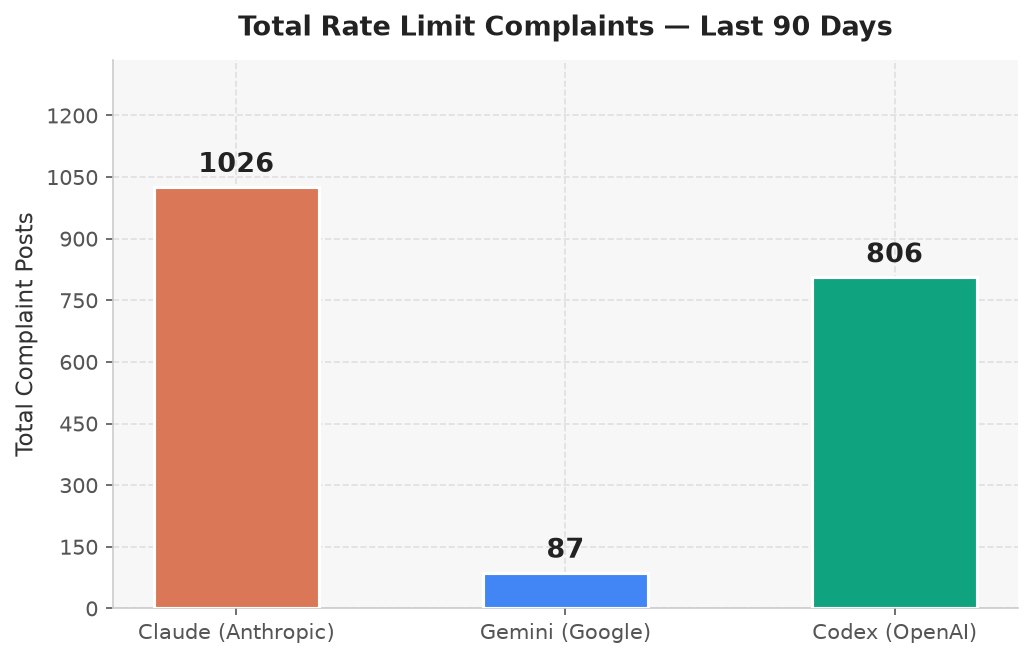
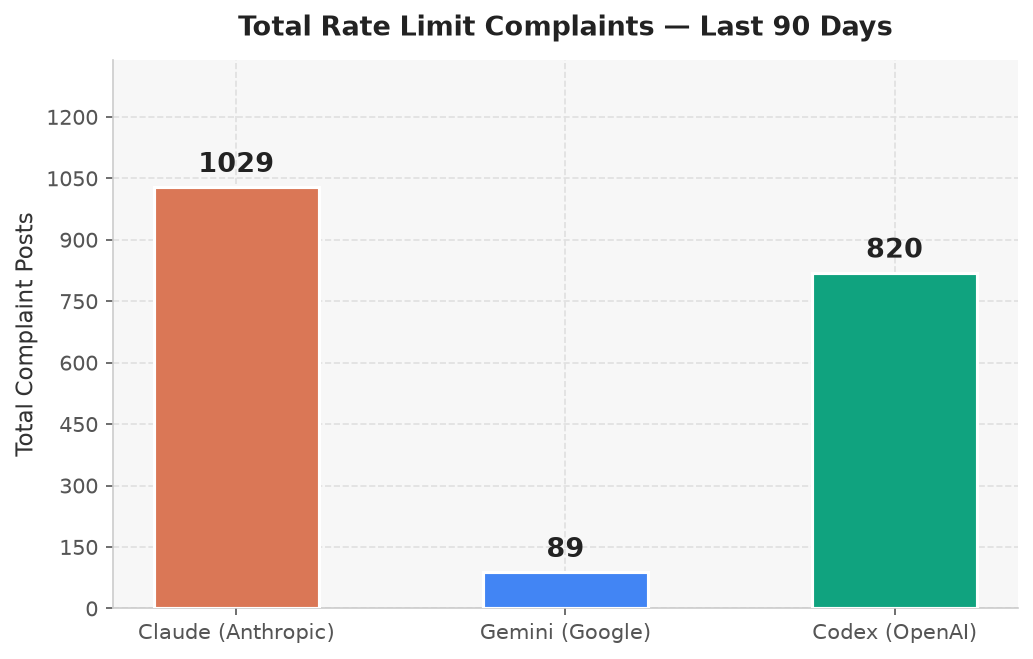
chore: update complaints data 2026-08-01

diff --git a/docs/index.html b/docs/index.html
@@ -165,7 +165,7 @@
     Automatically tracking Reddit posts that complain about rate limits
     for <strong>Claude</strong>, <strong>Gemini</strong>, and <strong>Codex</strong>.
   </p>
-  <p class="updated">Last updated: 2026-07-31T09:04:42.789344+00:00 &nbsp;·&nbsp; Auto-updated daily via GitHub Actions</p>
+  <p class="updated">Last updated: 2026-08-01T08:33:59.133161+00:00 &nbsp;·&nbsp; Auto-updated daily via GitHub Actions</p>
 </header>
 
 <main>
@@ -174,17 +174,17 @@
   <div class="stat-grid">
     <div class="stat-card claude">
       <h3>Claude</h3>
-      <p class="count">1026</p>
+      <p class="count">1029</p>
       <small>complaint posts (90 days)</small>
     </div>
     <div class="stat-card gemini">
       <h3>Gemini</h3>
-      <p class="count">87</p>
+      <p class="count">89</p>
       <small>complaint posts (90 days)</small>
     </div>
     <div class="stat-card codex">
       <h3>Codex</h3>
-      <p class="count">806</p>
+      <p class="count">820</p>
       <small>complaint posts (90 days)</small>
     </div>
   </div>
